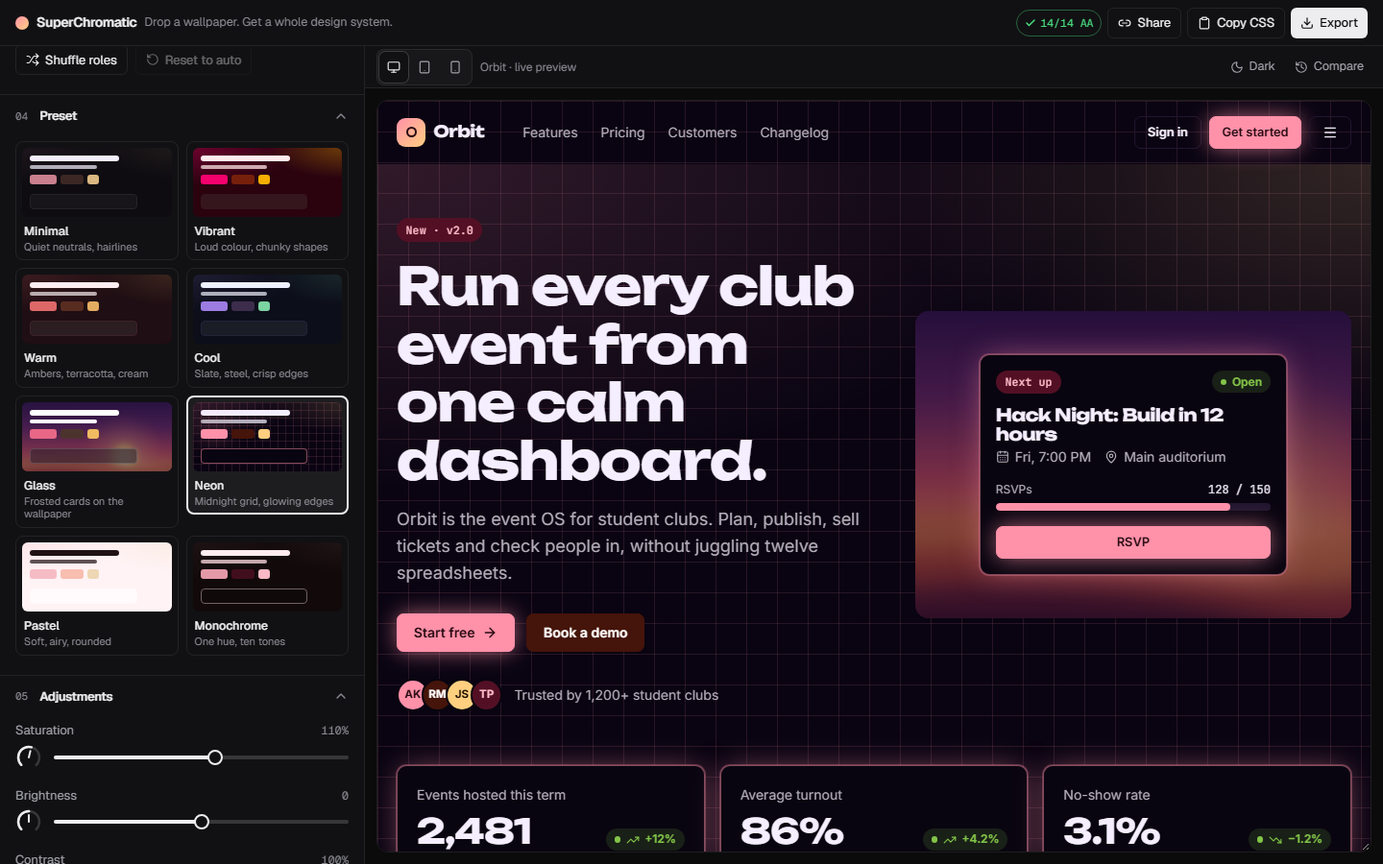
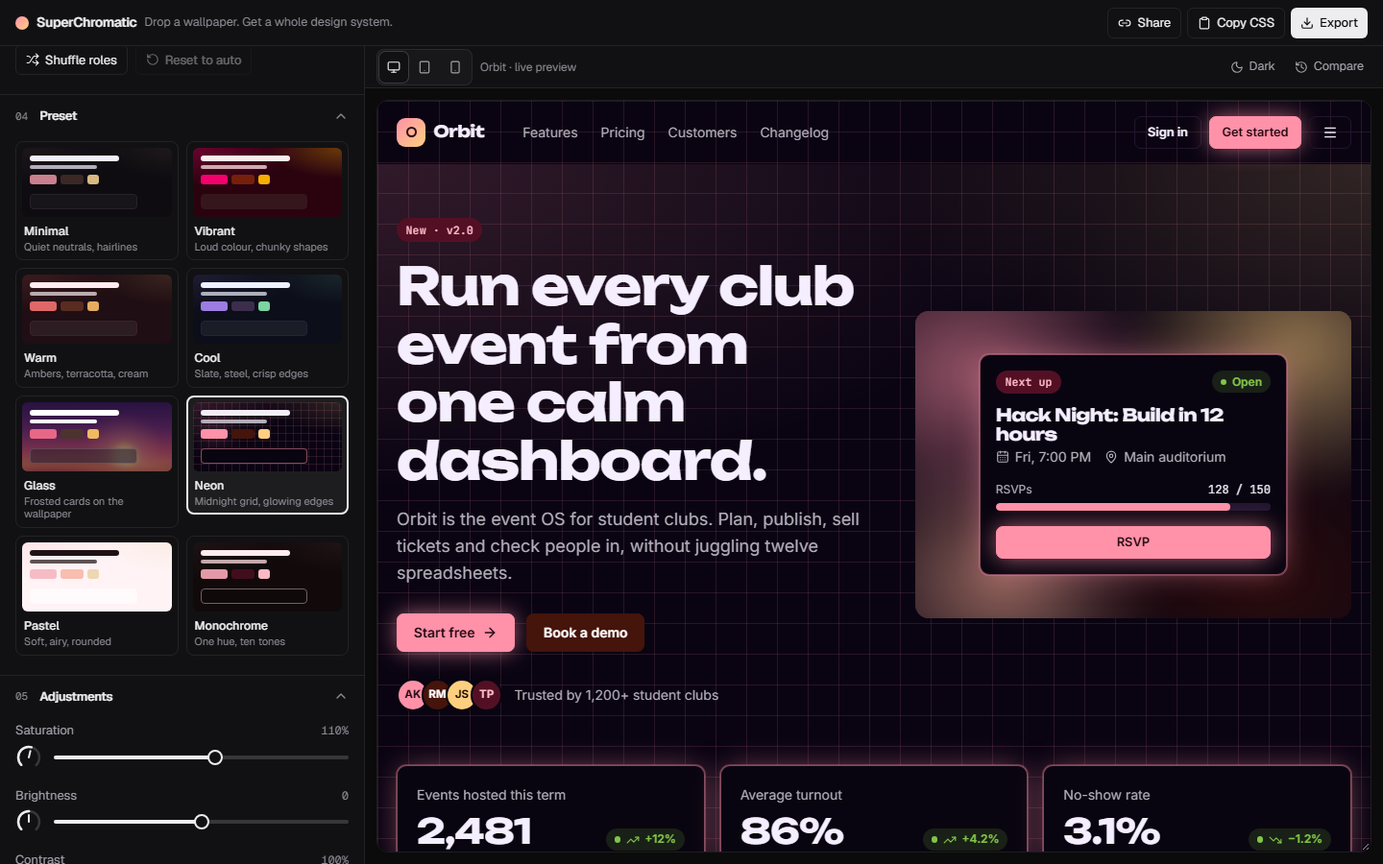
Plain-language UI: palette mesh hero, friendly names, readable a11y report
- Hero card sits on a drifting palette mesh gradient instead of a blurred wallpaper copy
- Strategies shown as Natural / Varied / Vibrant with a one-line explanation
- Accessibility copy rewritten for non-experts (Great/Good/Hard to read, glossary)
- Readability chip moved from the top bar into the Accessibility header
- Exports drop the app-only --wallpaper-fallback token

Changed region(s): [[0.6562, 0.3422, 1.0, 0.7156], [0.75, 0.0, 0.7812, 0.0311]]

diff --git a/src/components/controls/ContrastReport.tsx b/src/components/controls/ContrastReport.tsx
@@ -8,7 +8,7 @@ export function useContrastSummary() {
   return { passing: checks.filter((c) => c.pass).length, total: checks.length }
 }
 
-/** Top-bar chip, e.g. "✓ 12/12 AA". */
+/** Header chip for the Accessibility section, e.g. "✓ 14/14 readable". */
 export function A11yChip() {
   const { passing, total } = useContrastSummary()
   const ok = passing === total
@@ -16,14 +16,16 @@ export function A11yChip() {
     <span
       role="status"
       data-testid="a11y-chip"
-      title="WCAG AA contrast pairs passing"
+      title="How many text colours are easy to read"
       className={`inline-flex h-7 items-center gap-1 rounded-full border px-2 font-mono text-[11.5px] ${ok ? 'border-good/40 text-good' : 'border-bad/40 text-bad'}`}
     >
       {ok ? <Check aria-hidden className="size-3" strokeWidth={3} /> : <TriangleAlert aria-hidden className="size-3" />}
-      <span>{passing}/{total} AA</span>
+      <span>{passing}/{total} readable</span>
     </span>
   )
 }
+
+const GRADE_LABEL = { AAA: 'Great', AA: 'Good', Fail: 'Hard to read' } as const
 
 export function A11ySection() {
   const { checks } = useTheme()
@@ -36,11 +38,12 @@ export function A11ySection() {
       <Switch
         checked={autoFix}
         onChange={setAutoFix}
-        label="Auto-fix contrast"
-        description="Nudges only the lightness of failing colours (hue and chroma stay) until every pair passes."
+        label="Fix hard-to-read colours"
+        description="Makes a colour a little lighter or darker until the words on it are easy to read. It stays the same colour, just a different shade."
       />
       <p className="text-[12.5px] text-ink-muted">
-        <strong className="font-semibold text-ink">{passing} of {total}</strong> pairs pass WCAG AA.
+        Words need to stand out from what’s behind them, so everyone can read them: people with weaker eyesight, or anyone on a phone in
+        bright sunlight. <strong className="font-semibold text-ink">{passing === total ? `All ${total}` : `${passing} of ${total}`}</strong> are easy to read.
       </p>
       <ul className="divide-y divide-line rounded-lg border border-line" aria-label="Contrast report">
         {checks.map((c) => {
@@ -52,31 +55,45 @@ export function A11ySection() {
               </span>
               <div className="min-w-0 flex-1">
                 <p className="truncate text-[12.5px]">{c.label}</p>
-                <p className="truncate font-mono text-[10.5px] text-ink-subtle" title={`${c.fg} on ${c.bg}, needs ${c.target}:1`}>
-                  {c.fg} / {c.bg}
+                <p className="truncate text-[11px] text-ink-subtle" title={`${c.fg} on ${c.bg}`}>
+                  Contrast {c.ratio.toFixed(1)}, needs {c.target}
                 </p>
               </div>
               {c.fixed && (
-                <span title="Adjusted by auto-fix" className="text-ink-subtle">
-                  <Wrench aria-label="auto-fixed" className="size-3.5" />
+                <span title="We changed the shade so it’s easier to read" className="text-ink-subtle">
+                  <Wrench aria-label="fixed for you" className="size-3.5" />
                 </span>
               )}
-              <span className="w-11 text-right font-mono text-[11.5px]" title={`Needs ${c.target}:1`}>{c.ratio.toFixed(2)}</span>
               <span
-                className={`w-10 rounded px-1 py-0.5 text-center font-mono text-[10.5px] font-medium ${
+                title={`WCAG ${g === 'Fail' ? 'fail' : g}`}
+                className={`w-[4.5rem] shrink-0 rounded px-1 py-0.5 text-center text-[11px] font-medium ${
                   g === 'Fail' ? 'bg-bad/15 text-bad' : g === 'AAA' ? 'bg-good/20 text-good' : 'bg-good/10 text-good'
                 }`}
               >
-                {g}
+                {GRADE_LABEL[g]}
               </span>
             </li>
           )
         })}
       </ul>
-      <p className="text-[12px] text-ink-subtle">
-        Targets: 4.5:1 for text, 3:1 for input borders and focus rings. Translucent glass surfaces are checked against the worst case of the
-        wallpaper’s darkest and lightest colours.
-      </p>
+      <dl className="space-y-1.5 text-[12px] text-ink-subtle">
+        <div>
+          <dt className="inline font-medium text-ink-muted">Contrast</dt>{' '}
+          <dd className="inline">compares how light the words are with how light the background is. 1 means you can’t see the words at all; 21 is black on white.</dd>
+        </div>
+        <div>
+          <dt className="inline font-medium text-ink-muted">Good (AA)</dt>{' '}
+          <dd className="inline">meets the rule most websites follow: contrast of at least 4.5 for words, 3 for outlines.</dd>
+        </div>
+        <div>
+          <dt className="inline font-medium text-ink-muted">Great (AAA)</dt>{' '}
+          <dd className="inline">meets the strictest level: at least 7 for words.</dd>
+        </div>
+        <div>
+          <dt className="inline font-medium text-ink-muted">Wrench</dt>{' '}
+          <dd className="inline">means we changed that shade for you.</dd>
+        </div>
+      </dl>
     </div>
   )
 }

diff --git a/src/lib/theme/generate.ts b/src/lib/theme/generate.ts
@@ -162,20 +162,20 @@ export function generateTheme(palette: RoleColors, preset: Preset, adj: Adjustme
     return { id, label, fg: toHex(fg), bg: rgbToHex(worst.bg), ratio: worst.ratio, target, pass: worst.ratio >= target, fixed: wasFixed }
   }
   const checks: ContrastCheck[] = [
-    row('text-bg', 'Text on background', text, page, TEXT_TARGET, fixed.has('text') || overlayRaised),
-    row('muted-bg', 'Muted text on background', textMuted, page, TEXT_TARGET, fixed.has('muted') || overlayRaised),
-    row('text-card', 'Text on card', text, onCard, TEXT_TARGET, fixed.has('text') || cardRaised),
-    row('muted-card', 'Muted text on card', textMuted, onCard, TEXT_TARGET, fixed.has('muted') || cardRaised),
-    row('primary', 'Primary button', primaryText, [rendered(primary)], TEXT_TARGET, fixed.has('primary')),
-    row('secondary', 'Secondary button', secondaryText, [rendered(secondary)], TEXT_TARGET, fixed.has('secondary')),
-    row('accent', 'Accent fill', accentText, [rendered(accent)], TEXT_TARGET, fixed.has('accent')),
-    row('badge', 'Badge', badgeText, [rendered(badgeBg)], TEXT_TARGET, fixed.has('badge')),
-    row('input-text', 'Input text', text, onInput, TEXT_TARGET, fixed.has('text') || inputRaised),
-    row('error', 'Error / danger text', danger, statusBgs(danger), TEXT_TARGET, fixed.has('danger')),
-    row('success', 'Success status', success, statusBgs(success), TEXT_TARGET, fixed.has('success')),
-    row('warning', 'Warning status', warning, statusBgs(warning), TEXT_TARGET, fixed.has('warning')),
-    row('input-border', 'Input border', inputBorder, onInput, UI_TARGET, fixed.has('inputBorder')),
-    row('ring', 'Focus ring', ring, page, UI_TARGET, fixed.has('ring')),
+    row('text-bg', 'Main text on the page', text, page, TEXT_TARGET, fixed.has('text') || overlayRaised),
+    row('muted-bg', 'Lighter text on the page', textMuted, page, TEXT_TARGET, fixed.has('muted') || overlayRaised),
+    row('text-card', 'Main text on cards', text, onCard, TEXT_TARGET, fixed.has('text') || cardRaised),
+    row('muted-card', 'Lighter text on cards', textMuted, onCard, TEXT_TARGET, fixed.has('muted') || cardRaised),
+    row('primary', 'Main button', primaryText, [rendered(primary)], TEXT_TARGET, fixed.has('primary')),
+    row('secondary', 'Second button', secondaryText, [rendered(secondary)], TEXT_TARGET, fixed.has('secondary')),
+    row('accent', 'Accent colour', accentText, [rendered(accent)], TEXT_TARGET, fixed.has('accent')),
+    row('badge', 'Little tags (badges)', badgeText, [rendered(badgeBg)], TEXT_TARGET, fixed.has('badge')),
+    row('input-text', 'Typing in text boxes', text, onInput, TEXT_TARGET, fixed.has('text') || inputRaised),
+    row('error', 'Error messages', danger, statusBgs(danger), TEXT_TARGET, fixed.has('danger')),
+    row('success', 'Success messages', success, statusBgs(success), TEXT_TARGET, fixed.has('success')),
+    row('warning', 'Warning messages', warning, statusBgs(warning), TEXT_TARGET, fixed.has('warning')),
+    row('input-border', 'Text box outlines', inputBorder, onInput, UI_TARGET, fixed.has('inputBorder')),
+    row('ring', 'Keyboard focus outline', ring, page, UI_TARGET, fixed.has('ring')),
   ]
 
   // ── 6. Effects ──────────────────────────────────────────────────────────────

diff --git a/src/components/controls/Palette.tsx b/src/components/controls/Palette.tsx
@@ -9,9 +9,10 @@ import { Slider } from './Slider'
 export const ROLE_LABEL: Record<Role, string> = { primary: 'Primary', secondary: 'Secondary', accent: 'Accent', background: 'Background' }
 
 const STRATEGIES: { id: Strategy; label: string; title: string }[] = [
-  { id: 'kmeans', label: 'K-means', title: 'Clusters pixels in OKLab; colours ranked by how much of the image they cover' },
-  { id: 'median', label: 'Median cut', title: 'Recursively splits the colour space at the median of its widest axis' },
-  { id: 'vibrant', label: 'Vibrant', title: 'Favours small but vivid pops of colour (chroma × √population)' },
+  // Plain-word names for k-means, median cut and the vibrant picker.
+  { id: 'kmeans', label: 'Natural', title: 'The colours you notice first, in the amounts they appear in the picture.' },
+  { id: 'median', label: 'Varied', title: 'A wider mix that also picks up the quieter colours hiding in the picture.' },
+  { id: 'vibrant', label: 'Vibrant', title: 'The boldest, brightest pops of colour, even tiny ones.' },
 ]
 
 export function PaletteSection() {
@@ -36,7 +37,8 @@ export function PaletteSection() {
   return (
     <div className="space-y-4">
       <div className="space-y-2">
-        <Segmented label="Extraction strategy" value={strategy} options={STRATEGIES} onChange={setStrategy} disabled={!image} />
+        <Segmented label="Colour style" value={strategy} options={STRATEGIES} onChange={setStrategy} disabled={!image} />
+        <p className="text-[12px] text-ink-subtle">{STRATEGIES.find((s) => s.id === strategy)?.title}</p>
         <Slider label="Colours to extract" min={5} max={10} value={k} defaultValue={8} onChange={setK} />
         {!image && swatches.length > 0 && <p className="text-[12px] text-ink-subtle">Palette restored from a link. Add a wallpaper to re-extract.</p>}
       </div>

diff --git a/src/components/controls/ControlsPanel.tsx b/src/components/controls/ControlsPanel.tsx
@@ -1,27 +1,28 @@
 import { AdjustSection } from './Adjustments'
-import { A11ySection } from './ContrastReport'
+import type { ComponentType } from 'react'
+import { A11yChip, A11ySection } from './ContrastReport'
 import { PaletteSection } from './Palette'
 import { PresetSection } from './PresetPicker'
 import { RolesSection } from './RoleSlots'
 import { Section } from './Section'
 import { WallpaperSection } from './UploadZone'
 
-export const SECTIONS = [
+export const SHEET_TABS = ['Image', 'Palette', 'Preset', 'Adjust', 'A11y'] as const
+
+export const SECTIONS: { id: string; title: string; tab: (typeof SHEET_TABS)[number]; Component: ComponentType; Aside?: ComponentType }[] = [
   { id: 'wallpaper', title: 'Wallpaper', tab: 'Image', Component: WallpaperSection },
   { id: 'palette', title: 'Palette', tab: 'Palette', Component: PaletteSection },
   { id: 'roles', title: 'Roles', tab: 'Palette', Component: RolesSection },
   { id: 'preset', title: 'Preset', tab: 'Preset', Component: PresetSection },
   { id: 'adjust', title: 'Adjustments', tab: 'Adjust', Component: AdjustSection },
-  { id: 'a11y', title: 'Accessibility', tab: 'A11y', Component: A11ySection },
-] as const
-
-export const SHEET_TABS = ['Image', 'Palette', 'Preset', 'Adjust', 'A11y'] as const
+  { id: 'a11y', title: 'Accessibility', tab: 'A11y', Component: A11ySection, Aside: A11yChip },
+]
 
 export function ControlsPanel() {
   return (
     <div>
-      {SECTIONS.map(({ id, title, Component }, i) => (
-        <Section key={id} n={i + 1} title={title}>
+      {SECTIONS.map(({ id, title, Component, Aside }, i) => (
+        <Section key={id} n={i + 1} title={title} aside={Aside && <Aside />}>
           <Component />
         </Section>
       ))}

diff --git a/src/lib/share/export.ts b/src/lib/share/export.ts
@@ -3,21 +3,23 @@ import { COLOR_TOKENS } from '../theme/tokens'
 export type ExportFormat = 'css' | 'json' | 'tailwind'
 
 const isColor = (name: string) => (COLOR_TOKENS as readonly string[]).includes(name)
+/** Everything except --wallpaper-fallback, which only exists for this app's share-link view. */
+const exported = (vars: Record<string, string>) => Object.entries(vars).filter(([k]) => k !== '--wallpaper-fallback')
 
 export function toCss(vars: Record<string, string>): string {
-  return `:root {\n${Object.entries(vars).map(([k, v]) => `  ${k}: ${v};`).join('\n')}\n}\n`
+  return `:root {\n${exported(vars).map(([k, v]) => `  ${k}: ${v};`).join('\n')}\n}\n`
 }
 
 export function toJson(vars: Record<string, string>, meta: Record<string, unknown>): string {
   const colors: Record<string, string> = {}
   const effects: Record<string, string> = {}
-  for (const [k, v] of Object.entries(vars)) (isColor(k) ? colors : effects)[k.slice(2)] = v
+  for (const [k, v] of exported(vars)) (isColor(k) ? colors : effects)[k.slice(2)] = v
   return JSON.stringify({ meta, colors, effects }, null, 2) + '\n'
 }
 
 /** Tailwind v4: colours become --color-*, so `bg-primary`, `text-text-muted` etc. just work. */
 export function toTailwind(vars: Record<string, string>): string {
-  const lines = Object.entries(vars).map(([k, v]) => {
+  const lines = exported(vars).map(([k, v]) => {
     const name = k.slice(2)
     if (isColor(k)) return `  --color-${name}: ${v};`
     if (name === 'radius') return `  --radius-theme: ${v};`

diff --git a/src/components/controls/Section.tsx b/src/components/controls/Section.tsx
@@ -2,13 +2,14 @@ import { ChevronDown } from 'lucide-react'
 import type { ReactNode } from 'react'
 
 /** Collapsible, numbered control section. Native <details> gives keyboard + screen-reader support for free. */
-export function Section({ n, title, children }: { n: number; title: string; children: ReactNode }) {
+export function Section({ n, title, aside, children }: { n: number; title: string; aside?: ReactNode; children: ReactNode }) {
   return (
     <details open className="group border-b border-line">
       <summary className="flex cursor-pointer list-none items-center gap-3 px-4 py-3 select-none hover:bg-hover">
         <span className="font-mono text-[11px] text-ink-subtle">{String(n).padStart(2, '0')}</span>
         <h2 className="text-[13px] font-semibold tracking-tight">{title}</h2>
-        <ChevronDown aria-hidden className="ml-auto size-4 text-ink-subtle transition-transform group-open:rotate-180" />
+        <span className="ml-auto">{aside}</span>
+        <ChevronDown aria-hidden className="size-4 text-ink-subtle transition-transform group-open:rotate-180" />
       </summary>
       <div className="px-4 pt-1 pb-5">{children}</div>
     </details>

diff --git a/src/preview/preview.css b/src/preview/preview.css
@@ -52,6 +52,25 @@
   filter: blur(var(--blur));
   transition: filter 200ms ease-out;
 }
+/* Four soft blobs of the palette over the page colour, drifting slowly. Blur still softens it. */
+.pv-mesh {
+  position: absolute;
+  inset: -25%;
+  background:
+    radial-gradient(30% 35% at 25% 30%, var(--primary) 0%, transparent 100%),
+    radial-gradient(28% 32% at 75% 25%, var(--accent) 0%, transparent 100%),
+    radial-gradient(32% 36% at 70% 75%, var(--secondary) 0%, transparent 100%),
+    radial-gradient(26% 30% at 30% 75%, color-mix(in oklab, var(--primary) 50%, var(--accent)) 0%, transparent 100%),
+    var(--bg);
+  filter: blur(var(--blur));
+  animation: pv-mesh-drift 24s ease-in-out infinite alternate;
+}
+@keyframes pv-mesh-drift {
+  to { transform: rotate(14deg) scale(1.12); }
+}
+@media (prefers-reduced-motion: reduce) {
+  .pv-mesh { animation: none; }
+}
 .pv-overlay {
   position: absolute;
   inset: 0;

diff --git a/src/components/TopBar.tsx b/src/components/TopBar.tsx
@@ -4,7 +4,6 @@ import { useState } from 'react'
 import { copyText, toCss } from '../lib/share/export'
 import { shareUrl } from '../lib/share/url'
 import { useTheme, useThemeStore } from '../store/useThemeStore'
-import { A11yChip } from './controls/ContrastReport'
 import { ExportModal } from './controls/ExportModal'
 import { btn, iconBtn } from './ui'
 
@@ -63,7 +62,6 @@ export function TopBar({ onToggleControls, controlsOpen }: { onToggleControls?: 
         <span className="hidden truncate text-[12.5px] text-ink-subtle xl:inline">Drop a wallpaper. Get a whole design system.</span>
       </div>
       <div className="ml-auto flex items-center gap-1.5">
-        <A11yChip />
         <button type="button" className={btn} onClick={share} aria-label="Copy share link">
           <Link2 aria-hidden className="size-3.5" /> <span className="max-md:hidden">Share</span>
         </button>

diff --git a/src/preview/sections/Hero.tsx b/src/preview/sections/Hero.tsx
@@ -19,7 +19,7 @@ export function AvatarStack({ names = ['AK', 'RM', 'JS', 'TP'] }: { names?: stri
   )
 }
 
-/** The wallpaper band: makes the blur and overlay sliders visible in every preset. */
+/** A mesh of the palette behind the event card (Glass shows the real wallpaper behind the whole page instead). */
 function WallpaperBand({ glass }: { glass: boolean }) {
   const [going, setGoing] = useState(false)
   const rsvps = going ? 129 : 128
@@ -27,7 +27,7 @@ function WallpaperBand({ glass }: { glass: boolean }) {
     <div className="relative h-72 overflow-hidden @xl:h-80" style={{ borderRadius: 'calc(var(--radius) * 1.4)' }}>
       {!glass && (
         <div aria-hidden className="pv-layer">
-          <div className="pv-wallpaper" />
+          <div className="pv-mesh" />
           <div className="pv-overlay" />
         </div>
       )}

diff --git a/src/components/controls/BottomSheet.tsx b/src/components/controls/BottomSheet.tsx
@@ -91,9 +91,12 @@ export function BottomSheet() {
         className="overflow-y-auto overscroll-contain border-t border-line px-4 pt-3 pb-8"
         style={{ height: Math.max(0, heights[snap] - HEADER) }}
       >
-        {SECTIONS.filter((s) => s.tab === tab).map(({ id, title, Component }) => (
+        {SECTIONS.filter((s) => s.tab === tab).map(({ id, title, Component, Aside }) => (
           <div key={id} className="mb-6">
-            <h2 className="mb-2 text-[13px] font-semibold">{title}</h2>
+            <div className="mb-2 flex items-center justify-between gap-2">
+              <h2 className="text-[13px] font-semibold">{title}</h2>
+              {Aside && <Aside />}
+            </div>
             <Component />
           </div>
         ))}

diff --git a/README.md b/README.md
@@ -22,8 +22,8 @@
 - ✅ **Responsive**: side-by-side panes at ≥1024px; a resizable left drawer from 640 to 1023px; under 640px the preview fills the screen and the controls live in a draggable bottom sheet (peek, half or full) with 44px touch targets. There is no horizontal scroll at any width (tested at 390, 768, 1024 and 1440px).
 
 **Bonuses**
-- ✅ **Multiple extraction strategies**: K-means (default), Median cut and Vibrant, plus an **eyedropper** on the image. It averages 5×5 pixels, shows a magnifier loupe on hover, and is keyboard-operable (arrow keys + Enter).
-- ✅ **Accessibility-aware colours**: a WCAG 2.x contrast engine with auto-fix (on by default) and a 14-pair report showing AA/AAA badges and "fixed" markers. The top-bar chip reads e.g. "✓ 14/14 AA". Glass surfaces are checked against the worst case behind them.
+- ✅ **Multiple extraction strategies**: K-means (default), Median cut and Vibrant, shown in the UI in plain words as **Natural**, **Varied** and **Vibrant** with a one-line explanation each. Plus an **eyedropper** on the image. It averages 5×5 pixels, shows a magnifier loupe on hover, and is keyboard-operable (arrow keys + Enter).
+- ✅ **Accessibility-aware colours**: a WCAG 2.x contrast engine with auto-fix (on by default) and a 14-pair report written for non-experts ("Main text on the page", "Great"/"Good"/"Hard to read", a short glossary of contrast, AA and AAA) with "fixed" markers. The Accessibility section header shows e.g. "✓ 14/14 readable". Glass surfaces are checked against the worst case behind them.
 - ✅ **Smooth transitions & micro-animations**: colour tokens are registered with `@property`, so the whole theme interpolates. Swatches stagger in and spring when selected. Role chips glide between slots (shared layout), the preset outline slides from card to card, slider thumbs grow while dragged, a scan line sweeps the image during extraction, and "Copy CSS" gives a sparkle burst. All of it switches off under `prefers-reduced-motion`.
 
 **Extras**: export as CSS variables, JSON tokens or a Tailwind v4 `@theme` block (copy or download); a shareable URL that stores the palette, roles, preset, sliders and mode in the hash; the last session saved in localStorage, with uploaded wallpapers kept in IndexedDB (see [Persistence](#persistence)); light/dark preview; desktop/tablet/mobile preview frames using container queries; hold-to-compare with the previous theme; 5 original sample wallpapers.
@@ -106,7 +106,7 @@ flowchart LR
 - **Auto-fix** (on by default): for each failing foreground, keep its hue and chroma and move only its OKLCH lightness. Both directions (toward black and toward white) are tried: a coarse scan brackets the first passing lightness, then a binary search narrows to the smallest change, and the direction needing the least change wins. Contrast is always measured on the *rendered* colour (gamut-mapped and rounded to hex), so a "pass" is real. A fuzz test checks the fix always ends ≥ target.
 - **Targets**: 4.5:1 for text (body, muted, button labels, badges, input text, error/success/warning text) and 3:1 for input borders and focus rings. One `--text` token is fixed against the page, cards *and* inputs at once, because it is used on all of them.
 - **Glass worst case**: translucent layers are composited (in sRGB, like the browser) over the overlay-tinted wallpaper's **darkest and lightest** extracted colours, and the worse result counts. If no text lightness can pass, the fixer raises the overlay opacity / card alpha in 5% steps until one can, and the report marks that pair "fixed".
-- **Report panel**: every pair with its ratio, an AA/AAA/Fail badge, an "Aa" sample and a wrench marker if auto-fix changed it. The summary chip sits in the top bar.
+- **Report panel**: every pair with its ratio, a Great (AAA) / Good (AA) / Hard to read badge, an "Aa" sample and a wrench marker if auto-fix changed it. The summary chip sits in the section header.
 - **The app itself**: native `<details>`, `<dialog>`, range inputs and selects for free keyboard support; visible focus rings; labels and ARIA on every control; an eyedropper that works by keyboard; the preview's native controls follow the theme's `color-scheme`; `prefers-reduced-motion` turns off every animation.
 
 ## Persistence
@@ -121,7 +121,7 @@ flowchart LR
 
 - **Neutral studio chrome** (#0B0B0C, 1px hairlines, Geist + Geist Mono) so the user's theme is the star. The only themed pixel in the chrome is the wordmark dot (Primary → Accent). The chrome follows the system light/dark preference.
 - **Fonts per preset**: Inter (Minimal: neutral), Space Grotesk (Vibrant: punchy), Fraunces (Warm: soft serif), Manrope (Cool: engineered), Sora (Glass: airy geometric), Unbounded + JetBrains Mono (Neon: loud display + techy labels), DM Sans (Pastel: friendly), IBM Plex Sans (Monochrome: sober).
-- **Wallpaper band**: every non-Glass preset shows the wallpaper behind the hero's event card, so the blur and overlay sliders always do something visible.
+- **Palette mesh**: every non-Glass preset puts a slowly drifting mesh gradient of the palette (primary, accent, secondary and a blend, over the page colour) behind the hero's event card, instead of a blurred copy of the wallpaper. Blur and overlay still apply to it, and the drift stops under reduced motion. Glass shows the real wallpaper behind the whole page.
 - **Mobile bottom sheet** with tabs instead of a long scrolling panel, so the preview stays visible while you tweak it.
 - **Performance**: extraction in a Worker on a 200px copy; the eyedropper samples a cached canvas; preset thumbnails use `useDeferredValue` so they never slow the main preview.
 - **Determinism**: the same image always gives the same palette, which matters for share links and demos.

diff --git a/NOTES.md b/NOTES.md
@@ -21,7 +21,7 @@
 | Responsive (desktop / drawer / bottom sheet) | ✅ | `src/App.tsx` (`Drawer`), `BottomSheet.tsx`, container queries in the preview |
 | Bonus: multiple strategies | ✅ | `kmeans.ts`, `medianCut.ts`, `vibrant.ts` |
 | Bonus: pick colours from the image | ✅ | `ImageInspector` in `UploadZone.tsx` (5×5 average, loupe, keyboard) |
-| Bonus: accessibility-aware colours | ✅ | `src/lib/a11y/contrast.ts`, auto-fix in `generate.ts`, `ContrastReport.tsx`, top-bar chip |
+| Bonus: accessibility-aware colours | ✅ | `src/lib/a11y/contrast.ts`, auto-fix in `generate.ts`, `ContrastReport.tsx`, chip in the Accessibility section header |
 | Bonus: transitions & micro-animations | ✅ | `@property` in `src/index.css`, root transition in `Preview.tsx`, Motion in Palette/RoleSlots/PresetPicker/TopBar/BottomSheet |
 | Export (CSS / JSON / Tailwind v4, copy + download) | ✅ | `src/lib/share/export.ts`, `ExportModal.tsx` |
 | Share URL + localStorage persistence | ✅ | `src/lib/share/url.ts`, `persist` in the store |
@@ -48,5 +48,6 @@
 - "Compare" shows the theme from before the latest burst of changes (a theme counts as settled after 700ms of no changes).
 - Sample wallpapers: procedurally built SVGs (seeded RNG for stars/buildings/bubbles/bokeh) rasterised to JPEG with headless Chromium, because `createImageBitmap` can't decode SVG blobs inside a worker, and uploads only accept PNG/JPG/WebP.
 - **Upload persistence (17 Oct 2026):** uploads go to IndexedDB (original Blob + id, name, upload time, extracted palette), newest 5 kept. localStorage stores the upload's id with an empty `src`, because the old blob: URL is dead after a reload. On load, `openUpload(id, keepPalette)` reads the Blob back and makes a new object URL without re-extracting. If the record is missing or IndexedDB is unavailable, the first sample loads instead. The palette saved with an upload is refreshed after every successful extraction (including a strategy or k change), so "Recent uploads" restores the latest extraction. Picked or custom colours stay in the session only. Thumbnails use their own object URLs, separate from the main image's, so removing a recent item never breaks the wallpaper on screen. Removing the upload that's currently showing leaves it on screen, but it won't come back after a reload.
+- **Plain-language pass (17 Oct 2026):** strategies are labelled Natural / Varied / Vibrant (internal ids unchanged). Contrast rows use everyday names, and badges read Great (AAA) / Good (AA) / Hard to read, with a short glossary under the list. The summary chip moved from the top bar into the Accessibility section header (in the mobile sheet too). The hero card sits on a palette mesh gradient (`.pv-mesh`, built only from tokens) instead of a blurred copy of the wallpaper. Exports leave out `--wallpaper-fallback`, which only matters inside this app.
 - Preview `color-scheme` follows the theme mode, so native radios/checkboxes/selects match the theme instead of the dark app chrome (caught in screenshot review).
 - Screenshot review fixes: Export button label was invisible (class conflict); contrast rows wrapped onto 3 lines.
